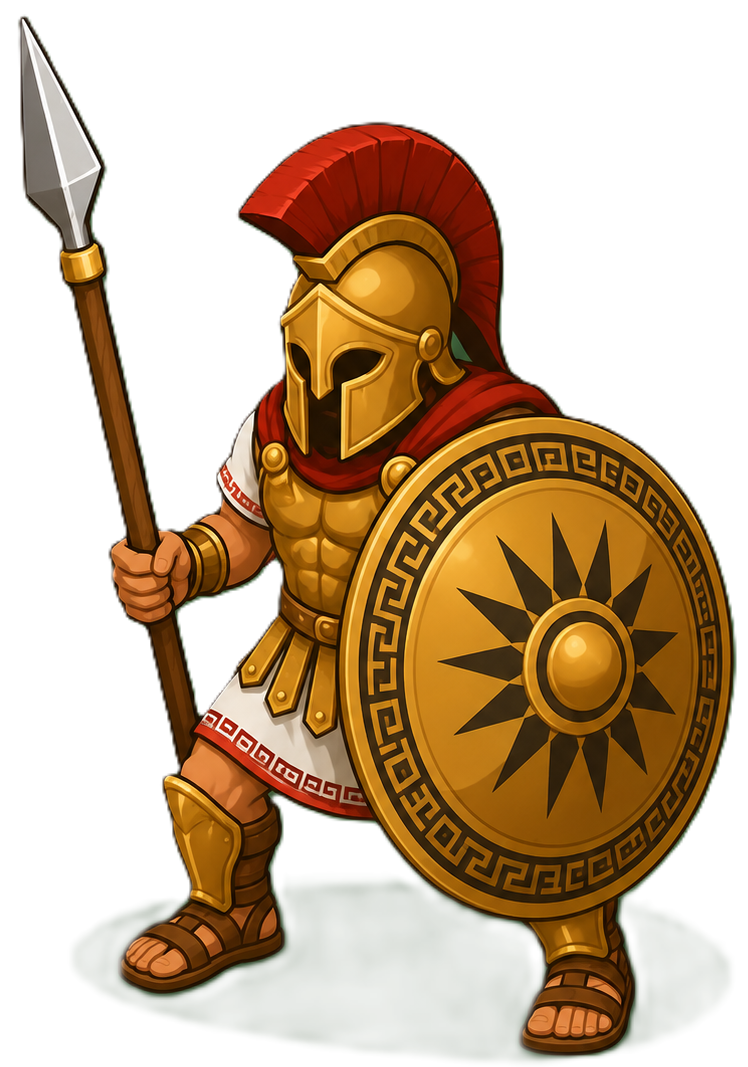
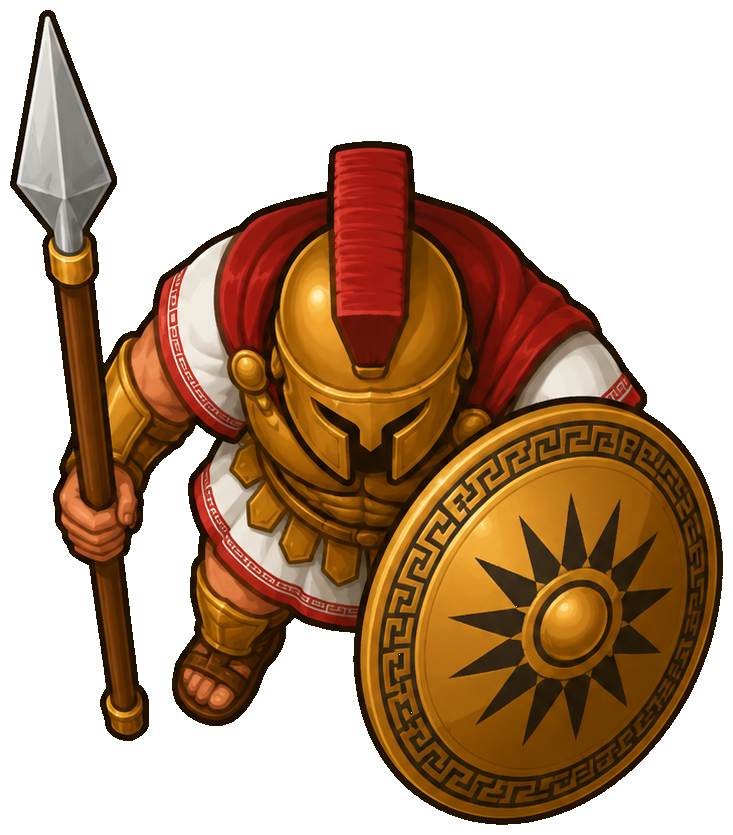
Normalize unit sprites and add drop shadows
Add scripts/normalize-units.py (Pillow): trims each sprite to its alpha
bbox, scales the long side to a per-type target (cavalry 144, infantry
132, skirmisher 124), and centers it on a 160px square canvas; red-team
sprites are rotated 180°. Wired as `npm run units:normalize`, output in
public/units/normalized/.

Rendering now loads the normalized sprites from /units/normalized/ and
swaps the red team's art to the new red-infantry/red-cavalry sprites
(replacing roman_soldier/mounted-knight). drawUnits draws a uniform
112px sprite with a blurred drop-shadow (addUnitSpriteWithShadow),
removing the old per-sprite size special-casing; PixiApp's LOD toggle
now hides the shadow alongside the sprite at far zoom.

diff --git a/src/canvas/render/drawUnits.ts b/src/canvas/render/drawUnits.ts
@@ -7,6 +7,12 @@ import { getTerrainMods } from '../../battle/terrain';
 import { TERRAINS } from '../terrain-defs';
 import { TEAM_TINTS, HEADING_ARROWS, LOD_THRESHOLD, TICK_MS, type Armies, type GroupOrders } from '../constants';
 
+const UNIT_SPRITE_SIZE = 112;
+const UNIT_SHADOW_OFFSET = { x: 8, y: 18 };
+const UNIT_SHADOW_SCALE = { x: 1.05, y: 0.35 };
+const UNIT_SHADOW_ALPHA = 0.35;
+const UNIT_SHADOW_BLUR = 3;
+
 export interface UnitsRenderContext {
   unitsGfx: PIXI.Container;
   unitContainers: Map<string, PIXI.Container>;
@@ -28,6 +34,33 @@ export interface UnitsRenderContext {
   fogOfWar: boolean;
   // current world scale — read directly so GSAP dive tweens don't cause stale reads
   worldScale: number;
+}
+
+function addUnitSpriteWithShadow(container: PIXI.Container, texture: PIXI.Texture, isFar: boolean): void {
+  const shadow = new PIXI.Sprite(texture);
+  shadow.anchor.set(0.5);
+  shadow.x = UNIT_SHADOW_OFFSET.x;
+  shadow.y = UNIT_SHADOW_OFFSET.y;
+  shadow.scale.set(
+    (UNIT_SPRITE_SIZE * UNIT_SHADOW_SCALE.x) / texture.width,
+    (UNIT_SPRITE_SIZE * UNIT_SHADOW_SCALE.y) / texture.height,
+  );
+  shadow.tint = 0x000000;
+  shadow.alpha = UNIT_SHADOW_ALPHA;
+  shadow.filters = [new PIXI.BlurFilter({ strength: UNIT_SHADOW_BLUR })];
+  shadow.label = 'unit-sprite-shadow';
+  shadow.visible = !isFar;
+  container.addChild(shadow);
+
+  const sprite = new PIXI.Sprite(texture);
+  sprite.anchor.set(0.5);
+  sprite.x = 0;
+  sprite.y = 0;
+  sprite.width = UNIT_SPRITE_SIZE;
+  sprite.height = UNIT_SPRITE_SIZE;
+  sprite.label = 'unit-sprite';
+  sprite.visible = !isFar;
+  container.addChild(sprite);
 }
 
 export function drawUnits(ctx: UnitsRenderContext): void {
@@ -214,19 +247,7 @@ export function drawUnits(ctx: UnitsRenderContext): void {
     const tex = u.team === 'red'
       ? (unitType === 'skirmisher' ? unitTexRedSkir : unitType === 'cavalry' ? unitTexRedCav : unitTex)
       : (unitType === 'skirmisher' ? unitTexBlueSkir : unitType === 'cavalry' ? unitTexBlueCav : unitTexBlue);
-    const sprite = new PIXI.Sprite(tex);
-    sprite.anchor.set(0.5, 1);
-    sprite.x = 0;
-    sprite.y = 32;
-    // Red cavalry/skirmisher art has more empty bbox margin than the infantry sprite,
-    // so render bigger to match the visible silhouette.
-    const isOversizedRedSprite = u.team === 'red' && (unitType === 'cavalry' || unitType === 'skirmisher');
-    const spriteSize = isOversizedRedSprite ? 100 : 72;
-    sprite.width = spriteSize;
-    sprite.height = spriteSize;
-    sprite.label = 'unit-sprite';
-    sprite.visible = !isFar;
-    container.addChild(sprite);
+    addUnitSpriteWithShadow(container, tex, isFar);
 
     // Per-type denominator so cavalry's 30/60 fills 50% (not the 30% an infantry would).
     const maxHp = MAX_HP_BY_TYPE[unitType];

diff --git a/src/canvas/PixiApp.ts b/src/canvas/PixiApp.ts
@@ -142,14 +142,14 @@ export function usePixiApp(ctx: PixiAppCtx): void {
         return PIXI.Texture.from(canvas);
       };
 
-      const [armyTex, romanSoldierTex, hopliteTex, mountedKnightTex, cavalryHopliteTex, romanSkirmisherTex, skirmisherTex, javelinTex, grassTex, grassNoiseTex, grassMacroNoiseTex, grassPatchDryTex, grassPatchDenseTex, grassFlowerSpeckTex, forestTex, forestMacroVariationTex, forestDensePatchTex, forestMossPatchTex, riverTex, riverFlowVariationTex, riverDepthPatchTex, riverEdgeSoftnessTex, riverShimmerHighlightTex, hillTex, hillMacroNoiseTex, hillPatchDryTex, hillPatchDenseTex, mountainTex, snowTex, sandTex, seaTex, seaMacroNoiseTex, seaShallowPatchTex, seaDepthPatchTex, seaMicroNoiseTex, deepSeaTex] = await Promise.all([
+      const [armyTex, redInfantryTex, hopliteTex, redCavalryTex, cavalryHopliteTex, romanSkirmisherTex, skirmisherTex, javelinTex, grassTex, grassNoiseTex, grassMacroNoiseTex, grassPatchDryTex, grassPatchDenseTex, grassFlowerSpeckTex, forestTex, forestMacroVariationTex, forestDensePatchTex, forestMossPatchTex, riverTex, riverFlowVariationTex, riverDepthPatchTex, riverEdgeSoftnessTex, riverShimmerHighlightTex, hillTex, hillMacroNoiseTex, hillPatchDryTex, hillPatchDenseTex, mountainTex, snowTex, sandTex, seaTex, seaMacroNoiseTex, seaShallowPatchTex, seaDepthPatchTex, seaMicroNoiseTex, deepSeaTex] = await Promise.all([
         loadHighResSvgTexture('/units/army.svg', 160),
-        PIXI.Assets.load<PIXI.Texture>('/units/roman_soldier.png'),
-        PIXI.Assets.load<PIXI.Texture>('/units/hoplite.png'),
-        PIXI.Assets.load<PIXI.Texture>('/units/mounted-knight.png'),
-        PIXI.Assets.load<PIXI.Texture>('/units/cavalry-hoplite.png'),
-        PIXI.Assets.load<PIXI.Texture>('/units/roman_skirmisher.png'),
-        PIXI.Assets.load<PIXI.Texture>('/units/skirmisher.png'),
+        PIXI.Assets.load<PIXI.Texture>('/units/normalized/red-infantry.png'),
+        PIXI.Assets.load<PIXI.Texture>('/units/normalized/hoplite.png'),
+        PIXI.Assets.load<PIXI.Texture>('/units/normalized/red-cavalry.png'),
+        PIXI.Assets.load<PIXI.Texture>('/units/normalized/cavalry-hoplite.png'),
+        PIXI.Assets.load<PIXI.Texture>('/units/normalized/roman_skirmisher.png'),
+        PIXI.Assets.load<PIXI.Texture>('/units/normalized/skirmisher.png'),
         PIXI.Assets.load<PIXI.Texture>('/units/javelin.png'),
         PIXI.Assets.load<PIXI.Texture>('/terrain/grass.png'),
         PIXI.Assets.load<PIXI.Texture>('/terrain/grass-noise.png'),
@@ -183,7 +183,7 @@ export function usePixiApp(ctx: PixiAppCtx): void {
       if (!isMounted) return;
 
       // LINEAR + auto-mipmaps so heavy minification at strategic zoom doesn't alias.
-      for (const tex of [romanSoldierTex, hopliteTex, mountedKnightTex, cavalryHopliteTex, romanSkirmisherTex, skirmisherTex, javelinTex, grassTex, grassNoiseTex, grassMacroNoiseTex, grassPatchDryTex, grassPatchDenseTex, grassFlowerSpeckTex, forestTex, forestMacroVariationTex, forestDensePatchTex, forestMossPatchTex, riverTex, riverFlowVariationTex, riverDepthPatchTex, riverEdgeSoftnessTex, riverShimmerHighlightTex, hillTex, hillMacroNoiseTex, hillPatchDryTex, hillPatchDenseTex, mountainTex, snowTex, sandTex, seaTex, seaMacroNoiseTex, seaShallowPatchTex, seaDepthPatchTex, seaMicroNoiseTex, deepSeaTex]) {
+      for (const tex of [redInfantryTex, hopliteTex, redCavalryTex, cavalryHopliteTex, romanSkirmisherTex, skirmisherTex, javelinTex, grassTex, grassNoiseTex, grassMacroNoiseTex, grassPatchDryTex, grassPatchDenseTex, grassFlowerSpeckTex, forestTex, forestMacroVariationTex, forestDensePatchTex, forestMossPatchTex, riverTex, riverFlowVariationTex, riverDepthPatchTex, riverEdgeSoftnessTex, hillTex, hillMacroNoiseTex, hillPatchDryTex, hillPatchDenseTex, mountainTex, snowTex, sandTex, seaTex, seaMacroNoiseTex, seaShallowPatchTex, seaDepthPatchTex, seaMicroNoiseTex, deepSeaTex]) {
         tex.source.scaleMode = 'linear';
         tex.source.autoGenerateMipmaps = true;
         tex.source.updateMipmaps();
@@ -220,9 +220,9 @@ export function usePixiApp(ctx: PixiAppCtx): void {
 
       /* eslint-disable react-hooks/immutability */
       ctx.armyTextureRef.current = armyTex;
-      ctx.unitTextureRef.current = romanSoldierTex;
+      ctx.unitTextureRef.current = redInfantryTex;
       ctx.unitTextureBlueRef.current = hopliteTex;
-      ctx.unitTextureRedCavalryRef.current = mountedKnightTex;
+      ctx.unitTextureRedCavalryRef.current = redCavalryTex;
       ctx.unitTextureBlueCavalryRef.current = cavalryHopliteTex;
       ctx.unitTextureRedSkirmisherRef.current = romanSkirmisherTex;
       ctx.unitTextureBlueSkirmisherRef.current = skirmisherTex;
@@ -456,7 +456,7 @@ export function usePixiApp(ctx: PixiAppCtx): void {
         // Per-unit containers (tactical) and flat sprites (strategic) coexist; descend
         // into 'unit-container' children and apply LOD directly to top-level labels.
         const applyLod = (child: PIXI.Container) => {
-          if (child.label === 'unit-sprite') child.visible = !isFar;
+          if (child.label === 'unit-sprite' || child.label === 'unit-sprite-shadow') child.visible = !isFar;
           else if (child.label === 'unit-marker') child.visible = isFar;
           else if (child.label === 'unit-detail') child.visible = !isFar;
         };

diff --git a/scripts/normalize-units.py b/scripts/normalize-units.py
@@ -1,0 +1,140 @@
+#!/usr/bin/env python3
+"""Normalize tactical unit sprites onto a consistent square canvas.
+
+Default usage:
+  python scripts/normalize-units.py
+
+Single-file usage:
+  python scripts/normalize-units.py input.png output.png --rotate 180
+"""
+
+from __future__ import annotations
+
+import argparse
+from dataclasses import dataclass
+from pathlib import Path
+from typing import Iterable
+
+try:
+    from PIL import Image
+except ModuleNotFoundError as exc:
+    raise SystemExit(
+        "Pillow is required. Install it with: python -m pip install Pillow"
+    ) from exc
+
+
+ROOT = Path(__file__).resolve().parents[1]
+DEFAULT_CANVAS_SIZE = 160
+DEFAULT_TARGET_SIZE = 128
+ALPHA_THRESHOLD = 8
+TYPE_TARGET_SIZES = {
+    "cavalry": 144,
+    "infantry": 132,
+    "skirmisher": 124,
+}
+
+
+@dataclass(frozen=True)
+class UnitJob:
+    src: Path
+    out: Path
+    rotate: float = 0
+    target_size: int = DEFAULT_TARGET_SIZE
+    canvas_size: int = DEFAULT_CANVAS_SIZE
+
+
+DEFAULT_UNIT_DIR = Path("public/units")
+DEFAULT_OUTPUT_DIR = DEFAULT_UNIT_DIR / "normalized"
+SKIP_DEFAULT_NAMES = {"javelin.png"}
+ROTATE_BY_NAME = {
+    "red-infantry.png": 180,
+    "red-cavalry.png": 180,
+    "roman_skirmisher.png": 180,
+}
+
+
+def unit_type_for_name(filename: str) -> str:
+    stem = Path(filename).stem.lower()
+    if "cavalry" in stem or "knight" in stem:
+        return "cavalry"
+    if "skirmisher" in stem:
+        return "skirmisher"
+    return "infantry"
+
+
+def alpha_bbox(image: Image.Image) -> tuple[int, int, int, int]:
+    alpha = image.getchannel("A")
+    mask = alpha.point(lambda value: 255 if value > ALPHA_THRESHOLD else 0)
+    bbox = mask.getbbox()
+    if bbox is None:
+        raise ValueError("input has no non-transparent pixels")
+    return bbox
+
+
+def normalize_unit(job: UnitJob) -> tuple[Path, tuple[int, int], tuple[int, int]]:
+    src = (ROOT / job.src).resolve() if not job.src.is_absolute() else job.src
+    out = (ROOT / job.out).resolve() if not job.out.is_absolute() else job.out
+
+    image = Image.open(src).convert("RGBA")
+    if job.rotate:
+        image = image.rotate(job.rotate, expand=True, resample=Image.Resampling.BICUBIC)
+
+    image = image.crop(alpha_bbox(image))
+    width, height = image.size
+    long_side = max(width, height)
+    if long_side == 0:
+        raise ValueError(f"{src} has empty dimensions")
+
+    scale = job.target_size / long_side
+    resized_size = (max(1, round(width * scale)), max(1, round(height * scale)))
+    image = image.resize(resized_size, Image.Resampling.LANCZOS)
+
+    canvas = Image.new("RGBA", (job.canvas_size, job.canvas_size), (0, 0, 0, 0))
+    x = (job.canvas_size - resized_size[0]) // 2
+    y = (job.canvas_size - resized_size[1]) // 2
+    canvas.alpha_composite(image, (x, y))
+
+    out.parent.mkdir(parents=True, exist_ok=True)
+    canvas.save(out)
+    return out, (width, height), resized_size
+
+
+def default_jobs() -> Iterable[UnitJob]:
+    unit_dir = ROOT / DEFAULT_UNIT_DIR
+    for src in sorted(unit_dir.glob("*.png")):
+        if src.name in SKIP_DEFAULT_NAMES:
+            continue
+        yield UnitJob(
+            DEFAULT_UNIT_DIR / src.name,
+            DEFAULT_OUTPUT_DIR / src.name,
+            rotate=ROTATE_BY_NAME.get(src.name, 0),
+            target_size=TYPE_TARGET_SIZES[unit_type_for_name(src.name)],
+        )
+
+
+def parse_args() -> argparse.Namespace:
+    parser = argparse.ArgumentParser(description=__doc__)
+    parser.add_argument("input", nargs="?", type=Path, help="Optional source PNG for one-off normalization.")
+    parser.add_argument("output", nargs="?", type=Path, help="Optional output PNG for one-off normalization.")
+    parser.add_argument("--rotate", type=float, default=0, help="Degrees to rotate clockwise before trimming.")
+    parser.add_argument("--target-size", type=int, default=DEFAULT_TARGET_SIZE, help="Visible long-side size in pixels.")
+    parser.add_argument("--canvas-size", type=int, default=DEFAULT_CANVAS_SIZE, help="Square output canvas size in pixels.")
+    return parser.parse_args()
+
+
+def main() -> None:
+    args = parse_args()
+    if bool(args.input) != bool(args.output):
+        raise SystemExit("Provide both input and output, or neither to run the default unit batch.")
+
+    jobs = [
+        UnitJob(args.input, args.output, rotate=args.rotate, target_size=args.target_size, canvas_size=args.canvas_size)
+    ] if args.input and args.output else list(default_jobs())
+
+    for job in jobs:
+        out, cropped_size, resized_size = normalize_unit(job)
+        print(f"{out.relative_to(ROOT)}  crop={cropped_size[0]}x{cropped_size[1]}  sprite={resized_size[0]}x{resized_size[1]}")
+
+
+if __name__ == "__main__":
+    main()